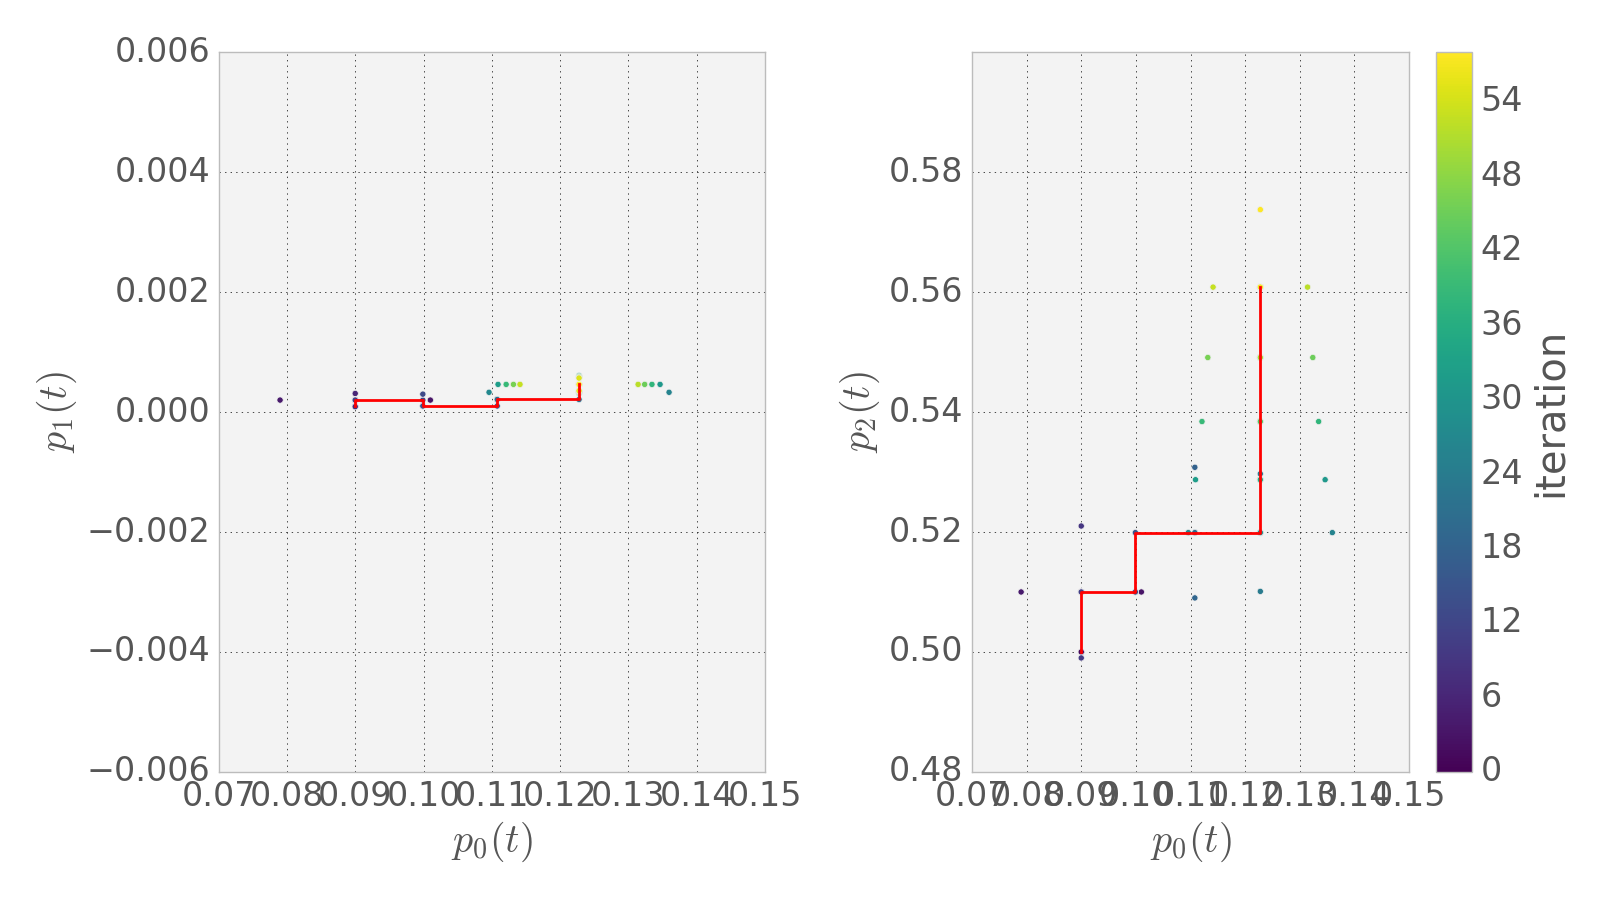
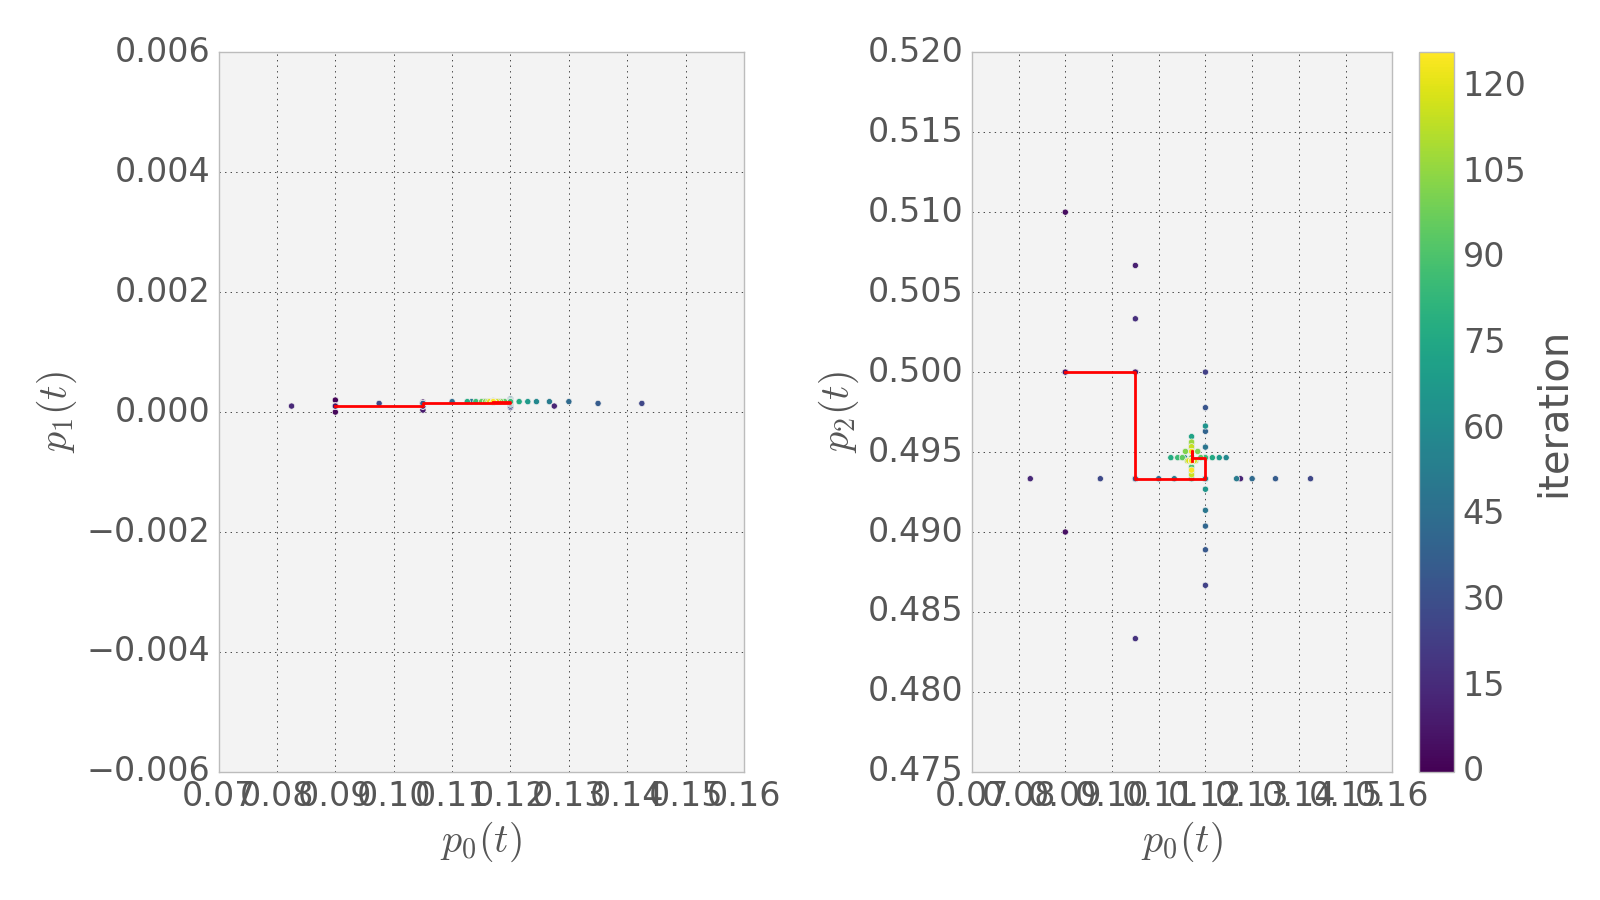
Use a larger step increase/decrease factor.
Some convergence, but still could be much better error.

diff --git a/src/twiddle.cpp b/src/twiddle.cpp
@@ -135,7 +135,7 @@ bool Twiddler::check_error(double error) {
 void Twiddler::succeed(double error) {
 	say_time(); cout << "Recording new best error of " << error;
 	cout << " and increasing dp[" << i_param << "]." << endl;
-	diff_parameters[i_param] *= 1.1;
+	diff_parameters[i_param] *= 1.5;
 	say_time(); vec_print(diff_parameters, "dp");
 	best_error = error;
 	say_time(); cout << "Best error decreased to " << best_error << "." << endl;
@@ -146,7 +146,7 @@ void Twiddler::succeed(double error) {
 void Twiddler::fail(double error) {
 	cout << endl; say_time(); cout << "Failed twiddle." << endl;
 	say_time(); cout << "Decreasing dp[" << i_param << "]" << endl;
-	diff_parameters[i_param] *= 0.9;
+	diff_parameters[i_param] /= 1.5;
 	say_time(); vec_print(diff_parameters, "dp");
 	moveOn(error);
 }
